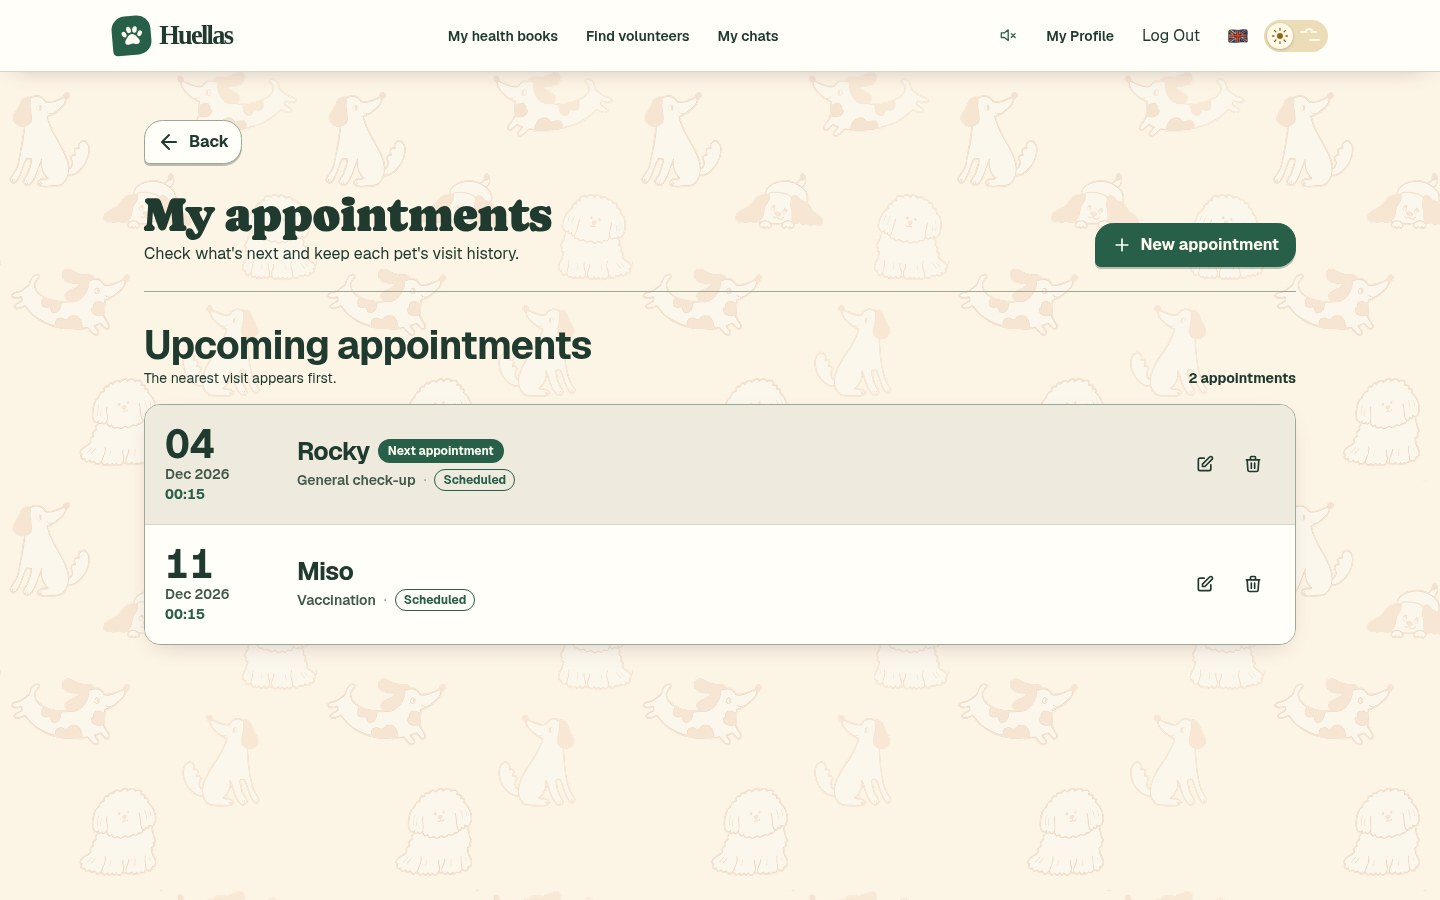
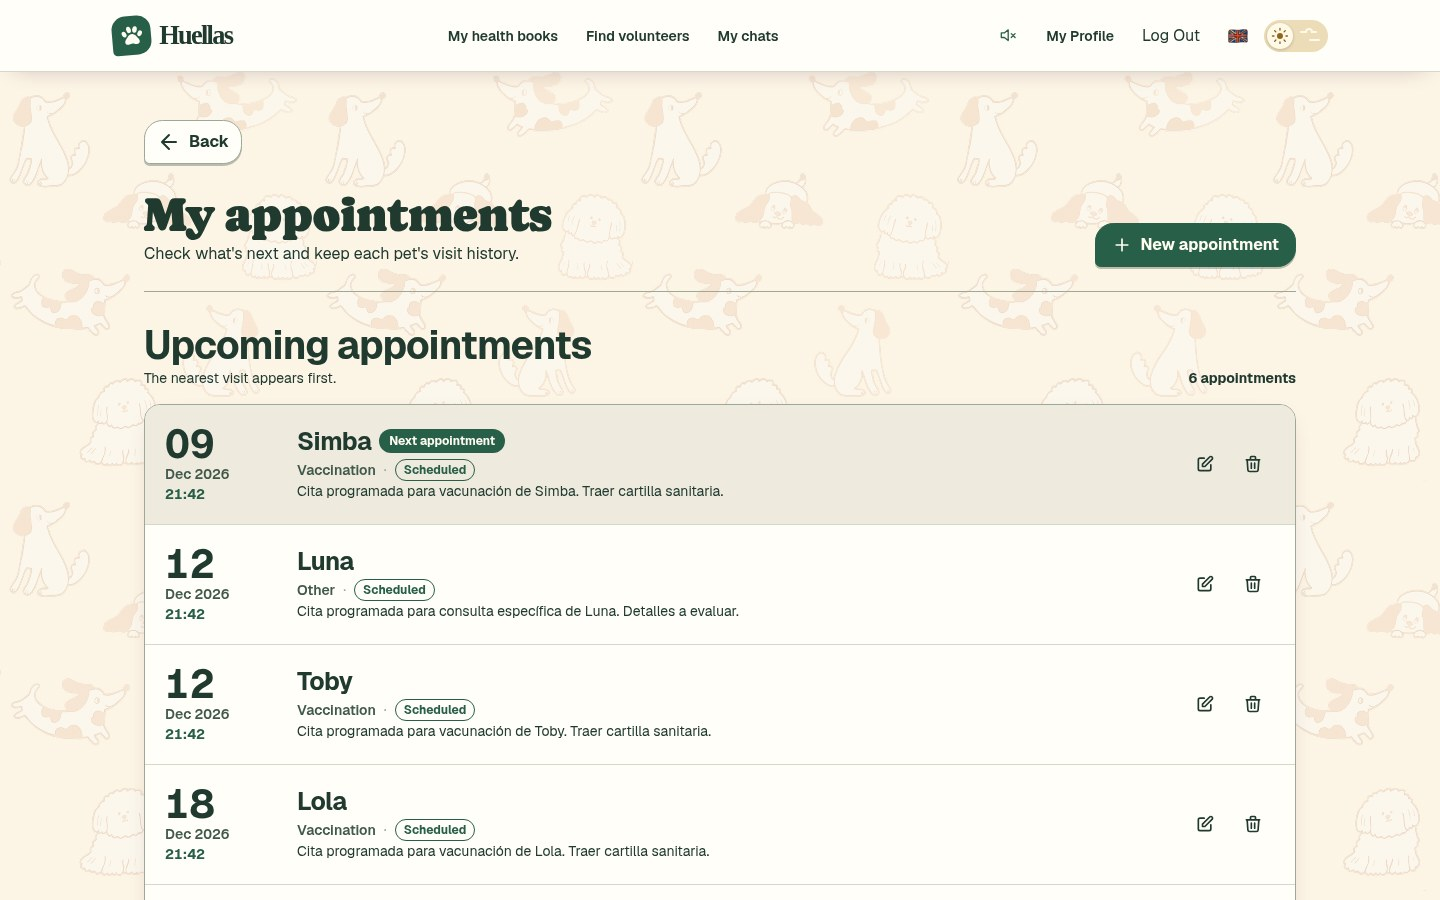
docs: use Juan’s demo account in portfolio screenshots

diff --git a/README.es.md b/README.es.md
@@ -12,7 +12,7 @@ mascota en un solo lugar, con una interfaz en español, inglés y catalán.
 
 [![Cartilla de Huellas: historial, documentos privados y controles para compartir](docs/huellas-preview-es.png)](docs/huellas-preview-es.png)
 
-Captura real de la aplicación con una cuenta y una mascota ficticias. El
+Captura de la cartilla de Rocky con la cuenta local de demostración de Juan. El
 repositorio no configura una URL de demo pública; las instrucciones de abajo
 permiten ejecutar la aplicación en local.
 
@@ -40,12 +40,10 @@ La grabación usa la cuenta local de Juan y las fotos existentes de sus mascotas
 Muestra la aplicación en funcionamiento; el texto visible en el campo de contraseña
 es solo un ejemplo para enseñar el gato y la contraseña de la cuenta queda oculta.
 
-[Cartilla en español](docs/huellas-preview-es.png) · [Health record in English](docs/huellas-preview.png) · [Vídeo del prototipo original](docs/media/legacy-demo.mp4)
+[Cartilla en español](docs/huellas-preview-es.png) · [Health record in English](docs/huellas-preview.png) · [Todas las capturas del portfolio](docs/portfolio/README.md) · [Vídeo del prototipo original](docs/media/legacy-demo.mp4)
 
 El vídeo del prototipo original se conserva como referencia histórica.
-Las capturas de la cartilla proceden de una compilación de producción del frontend conectada
-a la API real con datos de demostración desechables; los registros médicos
-son ficticios.
+Las capturas muestran la aplicación local y los datos de demostración de Juan y sus mascotas.
 
 ## Arquitectura
 

diff --git a/README.md b/README.md
@@ -12,7 +12,7 @@ in one place, with an interface in English, Spanish and Catalan.
 
 [![Huellas health record: event history, private documents and sharing controls](docs/huellas-preview.png)](docs/huellas-preview.png)
 
-Actual application capture with a fictional account and pet. No public hosted
+Application screenshot from Juan’s local demo account, showing Rocky’s health book. No public hosted
 demo URL is configured in this repository; the instructions below run the app locally.
 
 ## Highlights
@@ -39,11 +39,10 @@ The recording uses Juan's local account and the pets' existing photos. It shows
 the running application; the visible password example belongs only to the cat
 demonstration, and the account password remains hidden.
 
-[Health record in English](docs/huellas-preview.png) · [Cartilla en español](docs/huellas-preview-es.png) · [Original prototype video](docs/media/legacy-demo.mp4)
+[Health record in English](docs/huellas-preview.png) · [Cartilla en español](docs/huellas-preview-es.png) · [All portfolio screenshots](docs/portfolio/README.md) · [Original prototype video](docs/media/legacy-demo.mp4)
 
 The original prototype video is kept as a historical reference.
-The health-record screenshots were captured from a production frontend build against the real
-API using disposable demonstration data; their medical entries are fictional.
+The screenshots show the local application and the seeded records for Juan and his pets.
 
 ## Architecture
 

diff --git a/docs/portfolio/README.md b/docs/portfolio/README.md
@@ -1,9 +1,9 @@
 # Huellas portfolio screenshots
 
 Captured at 1440 × 900 in Spanish and English from Huellas at commit
-`18cb48f`, using the local React frontend, API and MySQL with a disposable
-demonstration account. The pet records, appointments and attached report are
-fictional. The preventive catalog retains its stored Spanish procedure names.
+`18cb48f`, using the local React frontend, API and MySQL. The signed-in views show Juan’s
+local demo account from the Huellas tour, including Rocky’s health book and
+preventive plan. The preventive catalog retains its stored Spanish procedure names.
 
 | View | Español | English |
 | --- | --- | --- |
